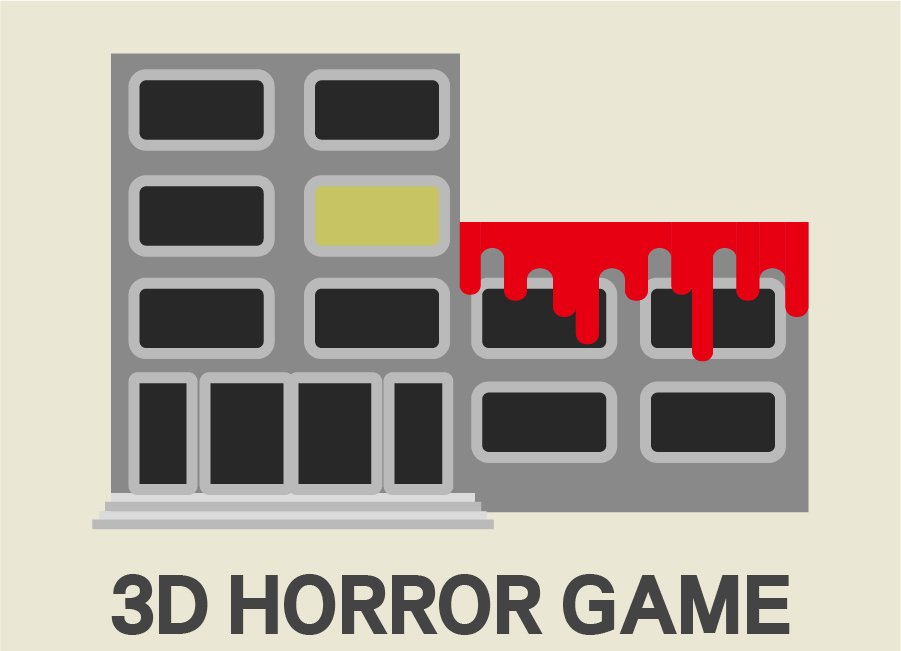
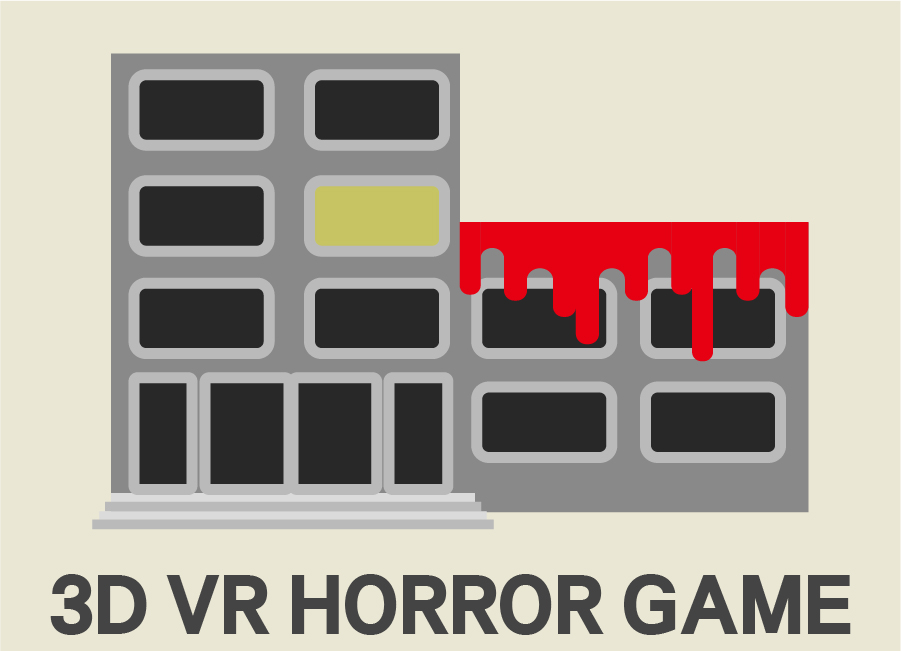
Upload portfolio

Changed region(s): [[0.0622, 0.8602, 0.9634, 0.9831]]

diff --git a/_portfolio/2016-6-11-2048.md b/_portfolio/2016-6-11-2048.md
@@ -1,0 +1,49 @@
+---
+layout: post
+title: C언어를 이용한 2048 게임
+img: "assets/img/portfolio/2048Game.jpg"
+date: June 2016
+---
+
+방향키를 이동시켜 2의 제곱수(2,4,8,16,32,64....)들을 만드는 게임이다. 점수제 게임이다.
+
+
+구현한 기능(자랑하고 싶은 기능)
+기능 소개
+1p/2p선택
+변수 select를 이용하여 인원수를 입력받고 switch문을 이용하여 1일 때 1p게임을 할 수 있도록 하고 2일 때 2p게임을 할 수 있도록 함
+
+2인용 게임 만들기
+변수 select을 이용하여 입력받은 인원수로 switch문을 통해서 분기를 나누어 1p일 때는 1p용 함수로, 2p일 때는 2p용 함수를 사용하도록 함
+
+랭킹 구조체
+name과 score를 구조체 넣어주어 다른곳에서도 계속 사용가능 할수 있도록 함
+
+
+구현한 기능(자랑하고 싶은 기능)
+기능 소개
+UI화면
+그림과 글씨를 넣었고, 위치는 gotoxy()함수를 이용하여 지정해주었다. 그리고 textcolor()함수를 이용하여 글자색을 바꿔주었다.
+2인용일 때 맵 프린트
+2인용일 때는 1인용을 입력할 때 사용한 2차원 배열을 gotoxy()를 이용해 한 번 더 사용하는 방식으로 2p의 맵을 그렸다.
+
+
+
+구현한 기능(자랑하고 싶은 기능)
+기능 소개
+2인용일 때 숫자 프린트 하는 것
+arr[][] 배열을 1p와 2p용으로 나누어서 입력받은 player의 값에 따라서 arr[][]배열에 숫자가 들어가게 하고, 그 arr[][]배열을 프린트하는 방식을 사용했다.
+숫자에 색 입히기
+switch문을 이용하여 arr[i][j]배열에 들어간 숫자들을 textcolor()함수를 이용하여 미리 정의된 색들을 지정해주었다
+2인용일 때 방향키
+if문을 사용하여 입력받은 키가 방향키 아스키코드인 224의 경우에는 1p의 배열을 움직이고, 그 외의 경우에는 switch문을 사용하여 w,a,s,d를 입력받은 경우에는 2p의 배열을 움직이고 그 외의 경우에는 default를 이용해 break;을 통해 빠져나오도록 했다.
+
+
+구현한 기능(자랑하고 싶은 기능)
+기능 소개
+랭킹 - 버블소트
+구조체 랭크(name[100],score)으로 만들어주고 랭크를 rank[11] 전역변수로 선언해두고 새로 입력받은 이름과 점수를 rank[10]에 넣어서 버블정렬을 통해서 랭킹을 정리한다.
+랭킹 출력화면
+rank 전역변수를 for문을 통해서 출력한다.
+sound 함수
+음악 재생은 PlaySound 함수를 이용한다. PlaySound 함수의 사용 형식은 PlaySound( TEXT("재생파일경로"), NULL, SND_SYNC | SND_FILENAME); 이다.

diff --git a/_portfolio/2019-09-27-petProject.md b/_portfolio/2019-09-27-petProject.md
@@ -7,13 +7,18 @@ tags: [Portfolio, project]
 ---
 ### 프로젝트
 - MQTT 및 Deep Learning 기술을 이용한 지능형 반려동물 케어시스템
-- 팀프로젝트
+- 4인 팀프로젝트
+- [GitHub](https://github.com/hamjeehyun/Pet-IoT-Project.git)
+
 <br>
 <br>
+
 ### 프로젝트 기간
 2019.3 - 2019.9
+
 <br>
 <br>
+
 ### 프로젝트 개요
 최근 1인 가구가 급속히 늘고 있다.<br>
 그에 맞춰 반려동물을 키우는 사람들도 증가하는 추세이다.<br>
@@ -22,6 +27,28 @@ tags: [Portfolio, project]
 이러한 상황은 반려동물의 분리불안증을 유발시키기도 한다.<br>
 <br>
 ‘1인 가구를 위한 반려동물 IoT’ 기술은 반려동물을 자신의 가족처럼, 더 나아가 자기 자신처럼 소중히 여기는 사람들을 위한 서비스로 활용될 수 있다.
+
+<br>
+<br>
+
+### 주요 기능
+#### IoT 기능
+1. 홈 CCTV
+실시간 모니터링 / 표정분석 데이터 전달
+1. 스마트피더
+일정 시간마다 내가 원하는 양의 사료를 자동으로 공급
+1. 음성센서
+반려동물이 짖으면 주인에게 알림전송
+1. 스피커
+반려동물에게 주인의 목소리 전달 / 반려동물이 안정감을 느끼도록하는 음악재생
+1. 온습도센서 선풍기
+더위를 많이 타는 강아지를 위한 자동 센서 선풍기
+
+#### 지능형 사물인터넷
+강아지 표정을 인식하여 판단하고 그 결과를 프로필 사진에 표시
+
+#### 커뮤니티
+사람들과 정보를 공유함으로써 반려동물에게 개선된 환경 제공 가능
 <br>
 <br>
 ### 맡은 분야

diff --git a/_portfolio/2017-09-29-3DHorrorGame.md b/_portfolio/2017-09-29-3DHorrorGame.md
@@ -1,0 +1,46 @@
+---
+layout: post
+title: 3D VR 공포게임 [실종]
+img: "assets/img/portfolio/3DHorrorGame.jpg"
+date: 29 September 2017
+tags: [Portfolio, project]
+---
+### 프로젝트
+- 3D VR 공포게임
+- 4인 팀프로젝트
+
+<br>
+<br>
+
+### 프로젝트 기간
+2017.7 - 2017.9
+
+<br>
+<br>
+
+### 프로젝트 개요
+VR(Virtual Reality)를 이용한 공포 스릴러 탈출 게임이다. 한성대학교 공학관이라는 실제 장소를 구현하여 공포감을 더욱 극대화했다.
+
+<br>
+<br>
+
+### 시나리오
+한성대 공학관에서 사람이 실종된다는 소문이 돌고 있다. 이 소문의 진실을 알고자 여학생과 남학생은 새벽의 공학관을 찾아간다. 그곳에서 남학생이 갑작스레 실종되고 여학생은 실종된 남학생을 찾으려하지만 이상한 쪽지만 발견될 뿐이다. 쪽지의 내용을 따라갈수록 진실은 밝혀지고 마침내 소름끼치는 현실을 마주하게 되는데...
+<br>
+<br>
+### 맡은 분야
+- 3D 모델링
+- Unity 프로그래밍
+<br>
+<br>
+### 개발환경
+- 프로그래밍 : 유니티
+- 그래픽 모델링 : 3D MAX
+- 장비 : OCULUS HMD, XBOX 게임 컨트롤러
+<br>
+<br>
+### 수상내역
+- 2017.9 한성대학교 교내 공학경진대회 <장려상>, <기업상>
+
+<br>
+<br>

diff --git a/_portfolio/2016-06-21-tutoring1.md b/_portfolio/2016-06-21-tutoring1.md
@@ -1,0 +1,17 @@
+---
+layout: post
+title: C언어 튜터링
+img: "assets/img/portfolio/tutoring1.jpg"
+date: September 2016
+---
+
+### 튜터링 기간
+2016.3 - 2016.6
+
+<br>
+<br>
+
+### 튜터링 내용
+- C언어 기초 문법
+- C언어를 이용한 간단한 프로그래밍
+- 중간, 기말고사 대비 문제풀이

diff --git a/_portfolio/2016-12-19-typint-gate.md b/_portfolio/2016-12-19-typint-gate.md
@@ -1,0 +1,6 @@
+---
+layout: post
+title: C언어 튜터링
+img: "assets/img/portfolio/typingGame.jpg"
+date: September 2016
+---
